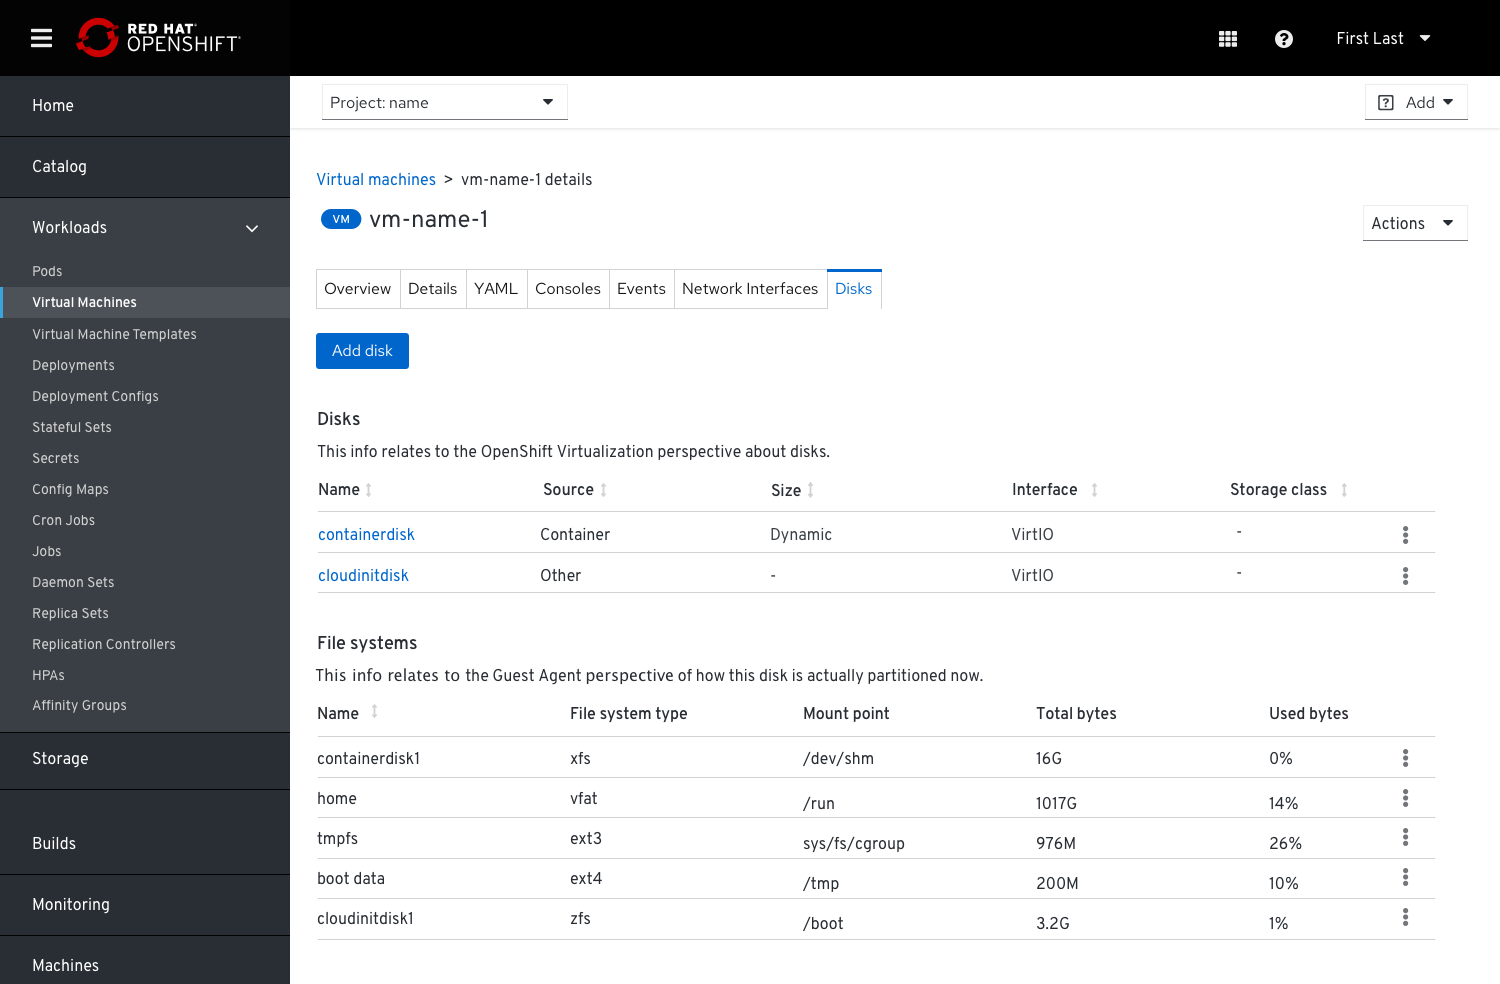
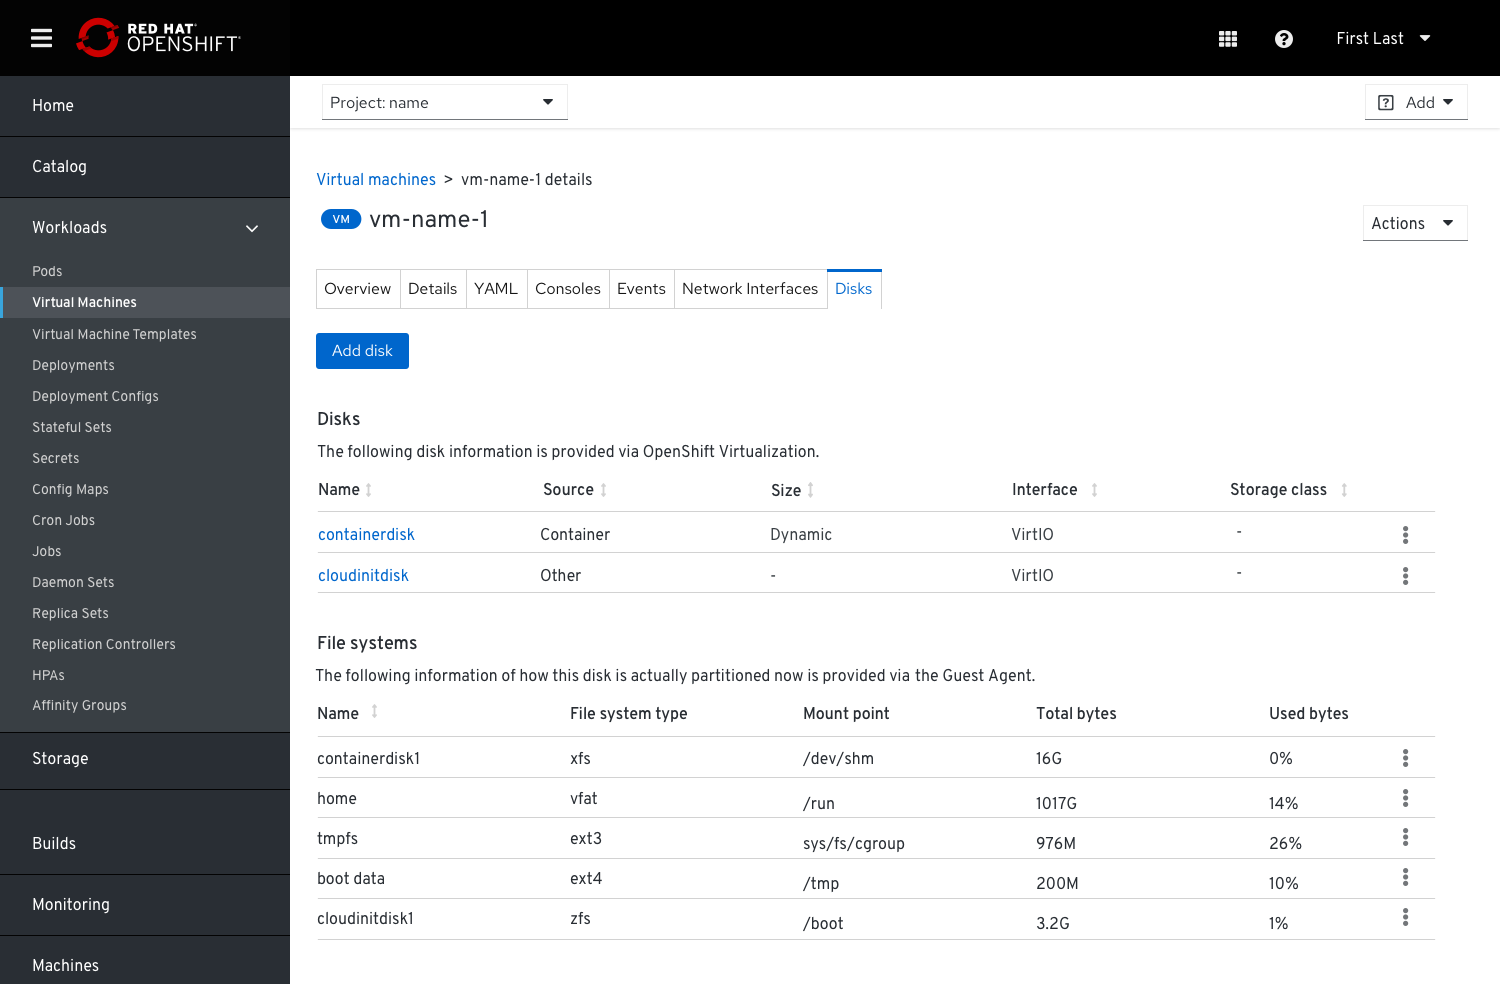
updates

Changed region(s): [[0.2147, 0.6707, 0.6747, 0.7012], [0.2147, 0.4573, 0.552, 0.4878]]

diff --git a/designs/virtualization/4.x/expose-guest-data/expose guest data.md b/designs/virtualization/4.x/expose-guest-data/expose guest data.md
@@ -20,14 +20,14 @@ Some of the data that is collected via the Guest Agent can be surfaced in the VM
 
 ![Additional data when Guest Agent is installed](img/vm-dashboard-w-ga-installed.png)
 
-Clicking the number of logged in users will lead to a table with all the relevant info about these logged in users. This info is required so that users will be aware  when they're about to take an action that will affect those logged in users (f.e.) powering the VM off or restarting it.
+Clicking the number of logged in users will lead to a table with all the relevant information about these logged in users. This information is required so that users will be aware when they're about to take an action that will affect those logged in users (f.e.) powering the VM off or restarting it.
 
 ### Details tab
 
 ![VM overview page](img/vm-overview.png)
 
-To simplify the information about OS versions (the Guest Agent and what was installed by the admin while creating the VM), we can surface only the current OS version that’s installed (the Guest Agent OS). 
-In case we have a mismatch between the chosen Operating System version (the OS that the admin originally installed) and the detected Operating System version, we can show an alert that indicates that mismatch and offer a solution.
+To simplify the information about OS versions (the Guest Agent and what was suggested by the admin while creating the VM), we can surface only the current OS version that’s installed (the Guest Agent OS).
+In case we have a mismatch between the suggested Operating System version (the OS that the admin originally suggested) and the installed Operating System version, we can show an alert that indicates that mismatch.
 
 ![notification when mismatch os version between Guest Agent and original](img/vm-overview-GA-not-match.png)
 
@@ -41,10 +41,10 @@ Some additional data related to File systems can be surfaced in the VM’s Disks
 
 - Disk mounts with usage - mount point - where the disk is mounted in the tree
 
-Since there is no 1:1 mapping between the way the disks are seen from the OpenShift Virtualization point of view and the way they are seen from the Guest Agent point of view, we’ll show the 2 sets of information in 2 separate tables.
+Since there is no 1:1 mapping between the way the disks are seen from the OpenShift virtualization point of view and the way they are seen from the Guest Agent point of view, we’ll show the 2 sets of information in 2 separate tables.
 The 'Disks' table will always be shown and the ‘File systems’ table (partitions) will be shown only if the Guest Agent is installed.
 
-In the case the Guest Agent isn't installed and we can provide only the disk table we will suggest that the Guest Agent can be installed to provide the File system information.
+In the case the Guest Agent isn't installed and we can provide only the disk table, we will suggest that the Guest Agent can be installed to provide the File system information.
 
 #### Disks table (when Guest Agent isn't installed)
 
